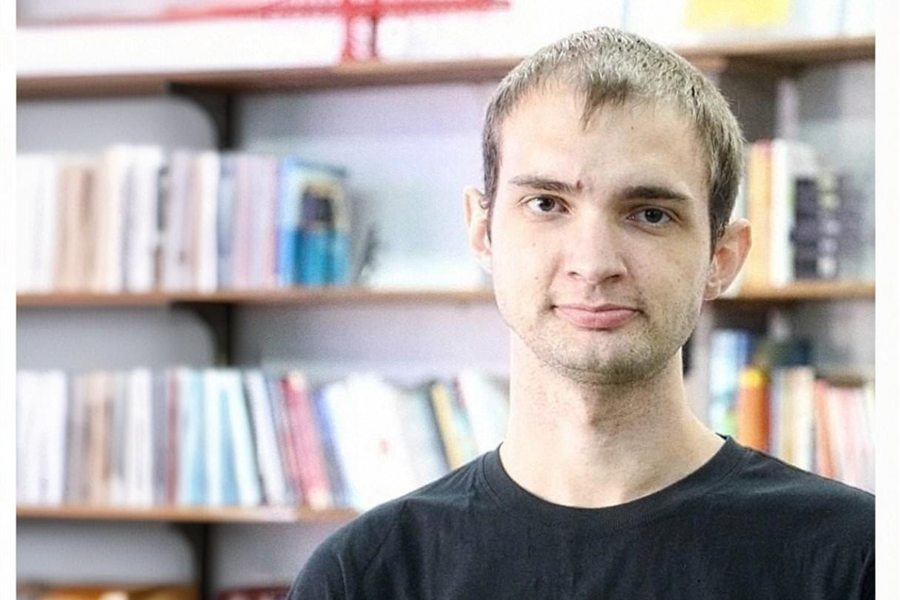
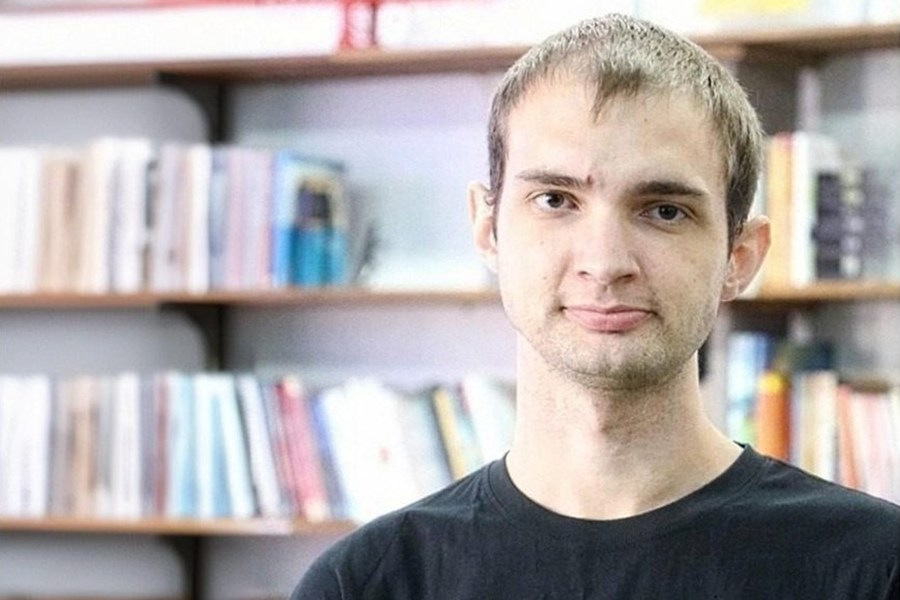
Revisão de responsividade mobile e foto do Diego Krause
- Menu mobile fechado não gera mais rolagem lateral (html overflow-x:clip, gaveta com visibility)
- Tile lilás do hero cresce com o texto (Para Empresas, Comunidade)
- Títulos de hero escalam com a largura em 320-600px (Home, cursos, Pós, Panorama)
- Rótulos da pos-spec quebram linha; card do Membership e botões longos cabem em 320px
- Foto do Diego Krause recortada sem as bordas brancas

diff --git a/assets/css/base.css b/assets/css/base.css
@@ -277,3 +277,15 @@ button{font:inherit;color:inherit}
 .cx-sec + .alun-sec2,.cx-sec + section.on-dark{padding-top:clamp(40px,4.5vw,72px)}
 .section.on-dark + .section.on-dark,.section.on-dark + .cx-sec .cx-hero{padding-top:clamp(64px,7vw,112px)}
 .section.on-dark:has(+ .section.on-dark),.section.on-dark:has(+ .alun-sec2),.section.on-dark:has(+ .cx-sec){padding-bottom:clamp(64px,7vw,112px)}
+
+/* ---------- revisão mobile (2026-11-18) ---------- */
+/* iOS ignora overflow-x do body: o corte precisa estar também no html */
+html{overflow-x:clip}
+@supports not (overflow:clip){ html{overflow-x:hidden} }
+/* gaveta fechada fica fora do fluxo de toque e de leitura (não gera rolagem lateral) */
+@media (max-width:1080px){
+  .nav{visibility:hidden;transition:transform .35s cubic-bezier(.2,.7,.2,1),visibility 0s .35s}
+  .nav-open .nav{visibility:visible;transition:transform .35s cubic-bezier(.2,.7,.2,1),visibility 0s}
+}
+/* telas pequenas (320–400px): botão longo quebra linha em vez de empurrar o card */
+@media (max-width:400px){ .btn{white-space:normal;text-align:center;line-height:1.2} }

diff --git a/assets/css/pos.css b/assets/css/pos.css
@@ -621,3 +621,6 @@
 /* fluxo refeito no Magnific em alta resolução (fibras de dados azuis) */
 .p-fluxo .p-foto{background-image:url('../img/pos-hero-fibra.jpg');background-position:right center;filter:none}
 .p-fluxo .p-main h1 .l2{color:#7fb4ff}
+/* revisão mobile: rótulos dos números quebram linha em vez de vazar do quadro */
+@media (max-width:600px){ .pos-spec{grid-template-columns:repeat(2,minmax(0,1fr))} .pos-spec li{padding:16px 18px;min-width:0} .pos-spec span{white-space:normal} }
+@media (max-width:600px){ .p-main h1,.p-grid.p-forte .p-main h1{font-size:clamp(34px,11.6vw,44px)} }

diff --git a/assets/css/pos-curso.css b/assets/css/pos-curso.css
@@ -327,3 +327,6 @@ body.pos-page{background:#000}
 .pc-kit b{display:block;font-family:var(--display);color:var(--yellow);margin-bottom:4px}
 @media (max-width:1080px){ .pc-outs.four{grid-template-columns:repeat(2,1fr)} .pc-skills{grid-template-columns:1fr} }
 @media (max-width:600px){ .pc-outs.four{grid-template-columns:1fr} .pc-list{grid-template-columns:1fr} }
+/* revisão mobile: "MANAGEMENT" cabe no card em 320px */
+@media (max-width:860px){ .pc-card{grid-template-columns:minmax(0,1fr)} .pc-card > *{min-width:0} }
+@media (max-width:600px){ .pc-card h1{font-size:clamp(34px,11.4vw,46px)} }

diff --git a/assets/css/course.css b/assets/css/course.css
@@ -563,3 +563,6 @@ a.step:hover{transform:translateY(-4px)}
 .ementa-aside .em-cases-lb h3{font-size:clamp(22px,2vw,26px)}
 .ementa-aside .em-cases-1 .em-cases-logos{grid-template-columns:1fr}
 .ementa-aside .em-cases-logos li{height:88px}
+/* revisão mobile: título do hero cabe na largura do celular (MANAGEMENT estourava a coluna) */
+@media (max-width:860px){ .c-hero-grid,.c-hero-grid > *{min-width:0} .c-hero-grid{grid-template-columns:minmax(0,1fr)} }
+@media (max-width:600px){ .c-hero h1{font-size:clamp(38px,12.6vw,52px)} .c-hero h1.h-sprint{font-size:clamp(32px,10.6vw,42px)} }

diff --git a/assets/css/cards-formacao.css b/assets/css/cards-formacao.css
@@ -109,3 +109,6 @@
 /* ---------- capas puxadas de leve para o lilás da PM3 (sem mexer nos arquivos: véu roxo em soft-light) ---------- */
 .f-vis::before{content:"";position:absolute;inset:0;z-index:1;background:#8e5cf0;mix-blend-mode:soft-light;opacity:.38;pointer-events:none}
 .f-vis::after{z-index:2}
+/* revisão mobile: card do Membership não estoura a coluna em 320px */
+@media (max-width:860px){ .f-more,.f-more-full{grid-template-columns:minmax(0,1fr)} .f-more > *{min-width:0} }
+@media (max-width:400px){ .f-more{padding:24px 20px} .fm-price{padding:20px 18px 18px} }

diff --git a/assets/css/panorama.css b/assets/css/panorama.css
@@ -117,3 +117,7 @@ body.pn-lock{overflow:hidden}
   .pn-card .cv{min-height:250px}
   .qa .ans{padding-right:0}
 }
+/* revisão mobile: coluna única sem estourar a largura */
+@media (max-width:1080px){ .pn-hero-grid{grid-template-columns:minmax(0,1fr)} .pn-hero-grid > *{min-width:0} }
+@media (max-width:600px){ .pn-intro .display{font-size:clamp(32px,10.4vw,40px)} }
+@media (max-width:400px){ .pn-form{padding-left:18px;padding-right:18px} }

diff --git a/assets/css/hero-card.css b/assets/css/hero-card.css
@@ -72,3 +72,8 @@
   .m-hero-grid{grid-template-rows:auto clamp(300px,82vw,420px) 200px}
   .m-photo{background-position-y:18% !important}
 }
+/* revisão mobile: o tile lilás cresce com o texto (altura fixa cortava o parágrafo) */
+@media (max-width:860px){
+  .m-hero-grid{grid-template-columns:minmax(0,1fr);grid-template-rows:auto clamp(300px,82vw,420px) auto}
+  .m-tile{min-height:200px;gap:18px}
+}

diff --git a/assets/css/home.css b/assets/css/home.css
@@ -407,3 +407,5 @@
 
 /* card do Top 5 leva ao Panorama */
 .aw-list li a{display:block;min-width:0;color:inherit;text-decoration:none}
+/* revisão mobile: título do hero cabe em 320px */
+@media (max-width:600px){ .h-hero h1{font-size:clamp(40px,14.6vw,58px)} }
